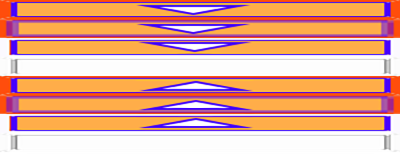
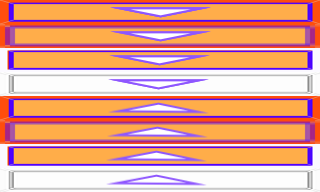
Fixed infobox button (might need some more fix)

diff --git a/js/game-assets.js b/js/game-assets.js
@@ -625,20 +625,20 @@ const sprite_defs = {
     button_info_box_close: {
         image: "info_box_button",
         frames: [
-            { x: 0, y: 0, width: 400, height: 24 },
-            { x: 0, y: 24, width: 400, height: 24 },
-            { x: 0, y: 48, width: 400, height: 24 },
-            { x: 0, y: 76, width: 400, height: 24 },
+            { x: 0, y: 0, width: 320, height: 24 },
+            { x: 0, y: 24, width: 320, height: 24 },
+            { x: 0, y: 48, width: 320, height: 24 },
+            { x: 0, y: 76, width: 320, height: 24 },
         ]
     },
 
     button_info_box_open: {
         image: "info_box_button",
         frames: [
-            { x: 0, y: 76, width: 400, height: 24 },
-            { x: 0, y: 76+24, width: 400, height: 24 },
-            { x: 0, y: 76+48, width: 400, height: 24 },
-            { x: 0, y: 76+76, width: 400, height: 24 },
+            { x: 0, y: 76+24, width: 320, height: 24 },
+            { x: 0, y: 76+(24*2), width: 320, height: 24 },
+            { x: 0, y: 76+(24*3), width: 320, height: 24 },
+            { x: 0, y: 76+(24*4), width: 320, height: 24 },
         ]
     },
 
